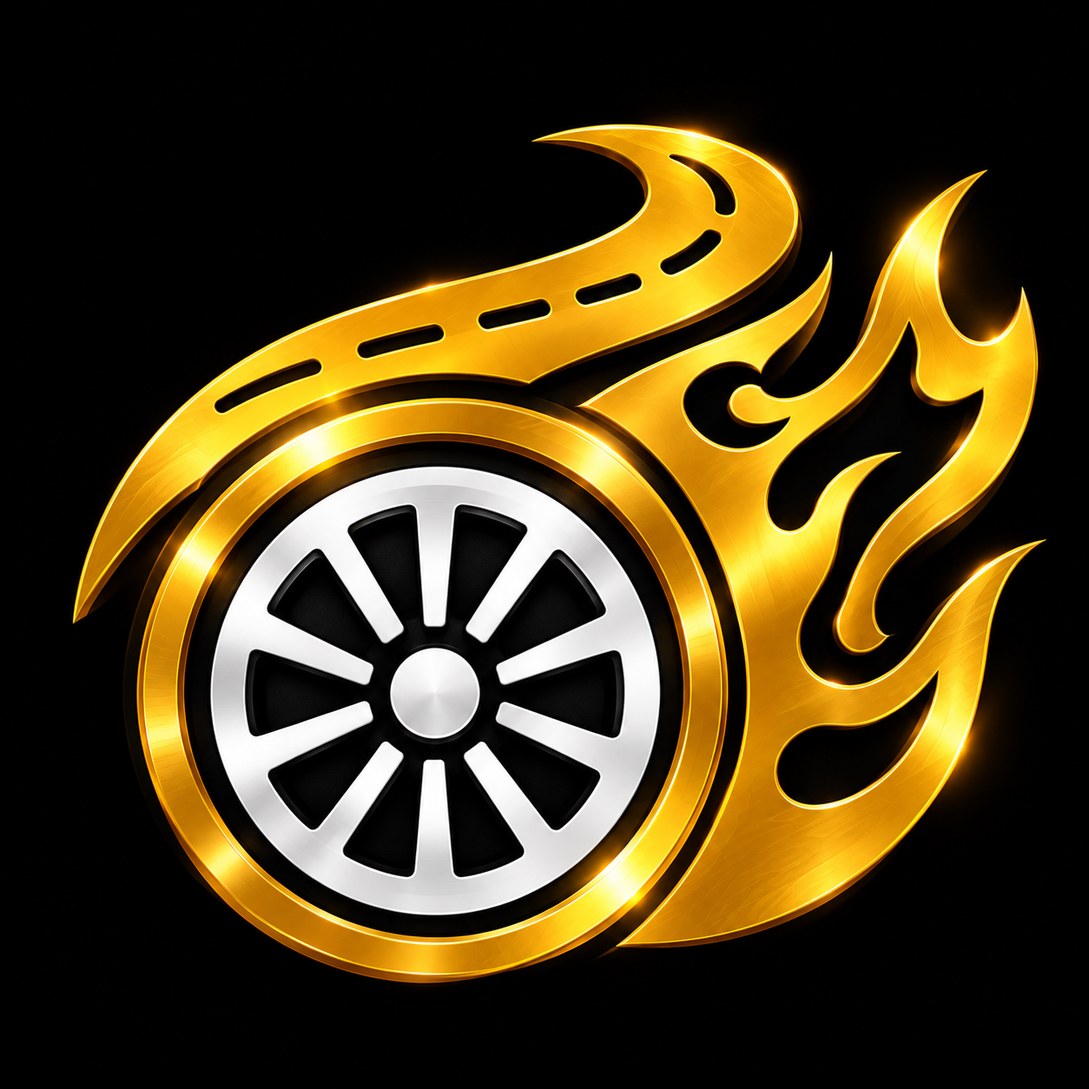
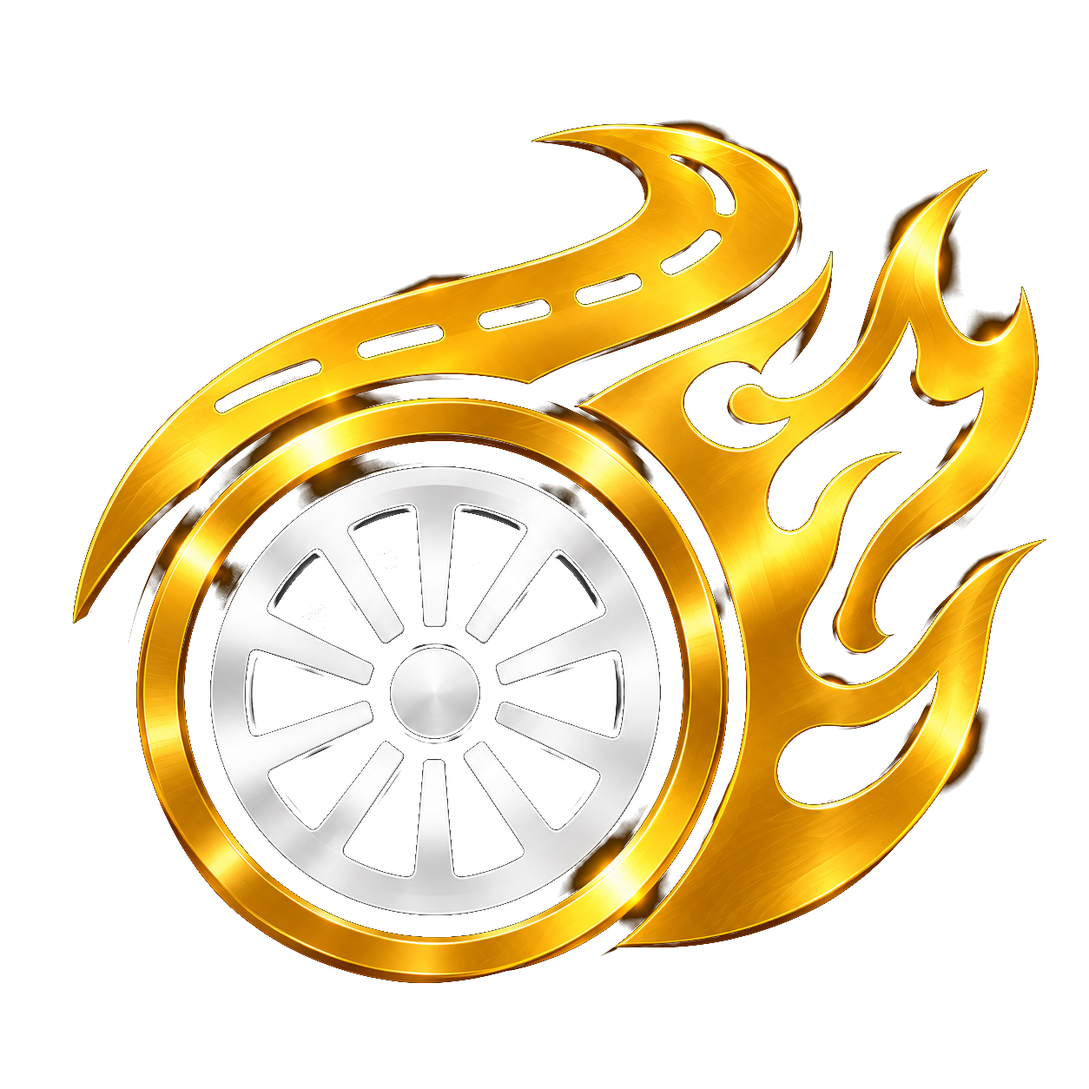
Add light/dark theme toggle, swipe approvals, edit price alerts
Features:
- Light theme with warm gold palette, toggle button in sidebar
  (persists via localStorage)
- Mobile swipe gestures on approval cards: swipe right to approve,
  swipe left to reject, with visual hints
- Edit price alert target: inline form with save/cancel
- Fix emblema.png transparency (remove black background)
- Increase header emblem size to 44px
- Move bot status indicator to health sidebar icon
- Remove status dot from emblem entirely

Generated with [Devin](https://devin.ai)

diff --git a/static/app.css b/static/app.css
@@ -14,10 +14,13 @@
 .sidebar-logout{width:42px;height:42px;display:flex;align-items:center;justify-content:center;border-radius:10px;color:var(--muted);text-decoration:none;transition:.15s}
 .sidebar-logout:hover{background:var(--surface2);color:var(--text)}
 .sidebar-logout[data-tip]:hover::after{content:attr(data-tip);position:absolute;left:54px;top:50%;transform:translateY(-50%);background:var(--surface2);color:var(--text);padding:6px 12px;border-radius:8px;font-size:12px;white-space:nowrap;border:1px solid var(--line);z-index:20}
-/* Emblem */
-.emblem-wrap{position:relative;display:block;text-decoration:none}.emblem{width:32px;height:32px;object-fit:contain;filter:drop-shadow(0 0 6px rgba(218,165,32,.3))}
-.emblem-wrap i{width:8px;height:8px;background:var(--green);border-radius:50%;position:absolute;bottom:0;right:-1px;border:2px solid #0a1220;box-shadow:0 0 8px var(--green)}
-.emblem-wrap i.offline{background:var(--red);box-shadow:0 0 8px var(--red)}
+/* Emblem (pure icon, no status) */
+.emblem-link{display:block;text-decoration:none}
+.emblem{width:44px;height:44px;object-fit:contain;display:block;background:transparent}
+/* Health icon status dot in sidebar */
+.sidebar nav a .health-dot{width:7px;height:7px;border-radius:50%;position:absolute;bottom:5px;right:5px;border:2px solid #0a1220}
+.sidebar nav a .health-dot.online{background:var(--green);box-shadow:0 0 6px var(--green)}
+.sidebar nav a .health-dot.offline{background:var(--red);box-shadow:0 0 6px var(--red)}
 /* Bottom bar (mobile only, hidden on desktop) */
 .bottombar{display:none}.more-menu{display:none}
 /* Login brand */
@@ -57,8 +60,90 @@ main{margin:0;width:100%;padding:18px 16px 80px}
 .sidebar nav a.active{background:linear-gradient(90deg,#d4af3722,#d4af3708);color:#d4af37}
 .sidebar nav a[data-tip]:hover::after{background:#242424;border-color:#3d382b}
 .sidebar-logout:hover{background:linear-gradient(90deg,#d4af3722,#d4af3708);color:#f6d55c}
-.emblem-wrap i{border-color:#090909}.emblem-wrap i.offline{background:var(--red)}
+.sidebar nav a .health-dot{border-color:#090909}
 .bottombar{background:linear-gradient(180deg,#090909,#11100d);border-top-color:#3c3219}
 .btab.active{color:#d4af37}
 .more-menu{background:#242424;border-color:#3d382b}
-.panel small{color:#d4af37}.topbar h1,.panel h2,.stats strong,.price,.target{font-family:'DejaVu Sans',Arial,sans-serif;font-weight:700;letter-spacing:-.02em}.panel,.stats article{background:linear-gradient(145deg,#191919,#111);border-color:#383326;box-shadow:0 12px 30px #00000024}.primary{background:linear-gradient(135deg,#f6d55c,#d4af37 55%,#b68d16);color:#0d0d0d;box-shadow:0 5px 16px #d4af3726}.primary:hover{filter:brightness(1.08)}.button{background:#202020;border-color:#454033}.button:hover{border-color:#d4af37;color:#f6d55c}input,textarea,select{background:#101010;border-color:#454033}input:focus,textarea:focus,select:focus{border-color:#d4af37;box-shadow:0 0 0 3px #d4af371c}.mini-card,.schedule-card,.deal-card{background:#202020;border-color:#454033}.pill{background:#302d25;color:#ded6bd}.status i{background:#d4af37;box-shadow:0 0 12px #d4af37}.login-page{background:radial-gradient(circle at 50% 15%,#4a390f66 0,transparent 36%),#0d0d0d}.login-card{background:linear-gradient(160deg,#1b1b1b,#0f0f0f);border-color:#4c4023;box-shadow:0 28px 80px #000b}.login-brand{height:190px;border-radius:0;mix-blend-mode:screen;margin-bottom:10px}.login-card h1{font-family:'DejaVu Sans',Arial,sans-serif}.icon-btn{background:#202020;border-color:#454033}.icon-btn:hover{border-color:#d4af37;color:#f6d55c}.button,.primary,.danger,button{font-family:'Montserrat',sans-serif}.deal-price,.health-hero h2{font-family:'DejaVu Sans',Arial,sans-serif}.store-toggles label,.rule-summary span,.edit-rule{background:#1c1b18}.settings-save{left:64px;background:#11100dee;border-top-color:#3c3219}.coupon-box{background:#181714}.health-hero{background:linear-gradient(120deg,#2b2617,#151515)}.health-hero.critical{background:linear-gradient(120deg,#3a2022,#151113)}.meter{background:#302e29}.pagination a,.pagination span{background:#202020;border-color:#454033}.sidebar nav{overflow-y:auto;flex:1;min-height:0}.nav-group:first-child{padding-top:6px}.sidebar nav a{display:flex;align-items:center;gap:10px}.sidebar nav a svg{flex-shrink:0;opacity:.7}.sidebar nav a.active svg,.sidebar nav a:hover svg{opacity:1}.nav-badge{margin-left:auto;background:var(--accent);color:#0d0d0d;font-size:11px;font-weight:700;min-width:20px;height:20px;line-height:20px;text-align:center;border-radius:10px;padding:0 6px}.health-dot{width:8px;height:8px;border-radius:50%;margin-left:auto;flex-shrink:0}.health-dot.online{background:var(--green);box-shadow:0 0 8px var(--green)}.health-dot.offline{background:var(--red);box-shadow:0 0 8px var(--red)}.logout{display:flex;align-items:center;gap:10px}.logout svg{opacity:.7}.split{overflow:hidden}.mini-card-v2{display:flex;align-items:stretch;gap:16px;padding:16px}.mini-left{display:flex;gap:12px;flex:1;min-width:0}.mini-thumb{width:64px;height:64px;object-fit:contain;border-radius:8px;background:#fff;flex-shrink:0}.mini-text{min-width:0}.mini-text h3{margin:6px 0 4px;white-space:nowrap;overflow:hidden;text-overflow:ellipsis}.mini-text p{margin:2px 0;font-size:13px}.mini-right{display:flex;flex-direction:column;align-items:center;gap:8px;flex-shrink:0;min-width:130px}.mini-btns{display:grid;grid-template-columns:1fr 1fr;gap:6px;width:100%;align-items:start}.mini-btns form,.mini-btns details{margin:0}.mini-btn{text-align:center;padding:7px 10px!important;font-size:12px!important;white-space:nowrap;width:100%!important;margin:0!important;box-sizing:border-box}.mini-btn-danger{color:var(--red)!important;border-color:#4a2020!important}.mini-btn-danger:hover{background:#3a1515!important;border-color:var(--red)!important}.mini-btns .mini-edit-wrap{flex:1;min-width:0}.mini-edit-wrap>summary{list-style:none;cursor:pointer;display:block;width:100%}.mini-edit-wrap>summary::-webkit-details-marker{display:none}.mini-btns .delete-form{flex:1;min-width:0}.mini-btns .delete-form .mini-btn{width:100%}.edit-mini{padding-top:10px}.link-btns{display:grid;grid-template-columns:1fr 1fr;gap:8px;margin-top:8px}.bulk-count{font-size:13px;color:var(--accent);font-weight:600}.rule-btns{display:grid;grid-template-columns:1fr 1fr;gap:8px;margin-top:12px;align-items:start}.rule-btns>*{margin:0}.rule-btns .button,.rule-btns .danger{width:100%;text-align:center;padding:9px 14px;font-size:13px;box-sizing:border-box}.rule-edit-wrap{min-width:0}.rule-edit-wrap>summary{list-style:none;cursor:pointer;display:block;width:100%}.rule-edit-wrap>summary::-webkit-details-marker{display:none}.edit-rule{margin-top:10px}.approval-actions{display:flex;flex-direction:column;gap:8px!important;margin-top:15px}.approval-actions button{width:auto!important;margin-top:0!important}.actions-primary{display:flex;gap:8px}.actions-primary button{flex:1;padding:9px 14px;font-size:13px}.actions-secondary{display:flex;gap:6px}.actions-secondary button{flex:1;padding:7px 8px;font-size:12px;border-radius:6px;border:1px solid var(--line);background:var(--surface2);color:var(--muted);cursor:pointer;transition:all .15s;white-space:nowrap}.actions-secondary button:hover{color:var(--text);border-color:var(--text)}.actions-secondary [data-action="block_product"],.actions-secondary [data-action="block_title"]{color:var(--red);border-color:#4a2020}.actions-secondary [data-action="block_product"]:hover,.actions-secondary [data-action="block_title"]:hover{background:#3a1515;border-color:var(--red)}.actions-secondary [data-action="price_alert"]{color:#f6d55c;border-color:#4a3518}.actions-secondary [data-action="price_alert"]:hover{background:#3a2a12;border-color:#d4af37}.approval-filters{display:flex;align-items:center;gap:10px}.approval-filters input[name="q"]{width:180px;flex-shrink:0}.approval-filters select{flex:1;min-width:0}.kbd-hint{font-size:11px;color:var(--muted);margin-left:12px}.kbd-hint kbd{display:inline-block;background:var(--surface2);border:1px solid var(--line);border-radius:4px;padding:1px 5px;font-family:inherit;font-size:11px;min-width:18px;text-align:center}.settings-save.unsaved{border-top-color:var(--accent);background:#1a1608ee}.settings-save.unsaved strong{color:var(--accent)}.settings-save.unsaved strong::after{content:' (alterações não salvas)';font-weight:400;font-size:12px}.stat-link{text-decoration:none;color:inherit;display:block}.stat-link:hover article{border-color:var(--accent);transform:translateY(-2px);transition:all .2s}.stats-6{grid-template-columns:repeat(3,1fr)}@media(max-width:600px){.stats-6{grid-template-columns:repeat(2,1fr)}}.stats{align-items:stretch}.stats .stat-link{display:flex}.stats .stat-link article{flex:1;display:flex;flex-direction:column}.stats article small{min-height:2.4em}.card-focus{outline:2px solid var(--accent);outline-offset:2px}#toast-container{position:fixed;top:20px;right:20px;z-index:999;display:flex;flex-direction:column;gap:8px}.toast{padding:12px 20px;border-radius:10px;color:#fff;font-weight:600;font-size:14px;opacity:0;transform:translateX(40px);transition:all .3s ease;pointer-events:none;max-width:380px}.toast.show{opacity:1;transform:translateX(0)}.toast-success{background:#1a6b3a;border:1px solid var(--green)}.toast-error{background:#6b1a1a;border:1px solid var(--red)}.toast-info{background:#1a3a6b;border:1px solid #4a9eff}.flash.auto-dismiss{transition:opacity .4s,transform .4s}.price-alert-form{display:flex;align-items:center;gap:10px;padding:10px 0;flex-wrap:wrap}.price-alert-form.hidden{display:none}.price-alert-form label{display:flex;align-items:center;gap:6px;font-size:13px}.price-alert-form input{width:100px}.price-alert-form .price-alert-form .primary,.price-alert-form .button{padding:6px 14px;font-size:13px}.panel+.approval-grid,.panel+.empty-state{margin-top:16px}.alert-card{padding:16px}.alert-top{display:flex;gap:12px;align-items:flex-start}.alert-img{width:80px;height:80px;object-fit:contain;border-radius:8px;background:#fff;flex-shrink:0}.alert-info{min-width:0}.alert-info h3{margin:6px 0 0;font-size:14px;line-height:1.3}.alert-prices{display:grid;grid-template-columns:1fr 1fr;gap:10px;margin-top:12px}.alert-prices div{background:var(--surface2);border-radius:8px;padding:8px 12px}.alert-prices small{display:block;color:var(--muted);font-size:11px;margin-bottom:2px}.alert-prices strong{font-size:15px}.alert-target-price{color:var(--accent)}.alert-footer{display:flex;align-items:center;gap:10px;margin-top:12px;font-size:12px;color:var(--muted)}.alert-footer form{margin-left:auto}[data-action="price_alert"]{background:#3a2a12;border-color:#6b4f1a;color:#f6d55c}[data-action="price_alert"]:hover{background:#4a3518;border-color:#d4af37}.alert-card{padding:16px}.alert-card img{border-radius:8px}.alert-triggered{border-color:#d4af37;background:linear-gradient(145deg,#2a2617,#151515)}@media(max-width:900px){.sidebar{width:280px}main{margin-left:0;width:100%}.brand img{width:205px;height:86px}.settings-save{left:0}}
+.panel small{color:#d4af37}.topbar h1,.panel h2,.stats strong,.price,.target{font-family:'DejaVu Sans',Arial,sans-serif;font-weight:700;letter-spacing:-.02em}.panel,.stats article{background:linear-gradient(145deg,#191919,#111);border-color:#383326;box-shadow:0 12px 30px #00000024}.primary{background:linear-gradient(135deg,#f6d55c,#d4af37 55%,#b68d16);color:#0d0d0d;box-shadow:0 5px 16px #d4af3726}.primary:hover{filter:brightness(1.08)}.button{background:#202020;border-color:#454033}.button:hover{border-color:#d4af37;color:#f6d55c}input,textarea,select{background:#101010;border-color:#454033}input:focus,textarea:focus,select:focus{border-color:#d4af37;box-shadow:0 0 0 3px #d4af371c}.mini-card,.schedule-card,.deal-card{background:#202020;border-color:#454033}.pill{background:#302d25;color:#ded6bd}.status i{background:#d4af37;box-shadow:0 0 12px #d4af37}.login-page{background:radial-gradient(circle at 50% 15%,#4a390f66 0,transparent 36%),#0d0d0d}.login-card{background:linear-gradient(160deg,#1b1b1b,#0f0f0f);border-color:#4c4023;box-shadow:0 28px 80px #000b}.login-brand{height:190px;border-radius:0;mix-blend-mode:screen;margin-bottom:10px}.login-card h1{font-family:'DejaVu Sans',Arial,sans-serif}.icon-btn{background:#202020;border-color:#454033}.icon-btn:hover{border-color:#d4af37;color:#f6d55c}.button,.primary,.danger,button{font-family:'Montserrat',sans-serif}.deal-price,.health-hero h2{font-family:'DejaVu Sans',Arial,sans-serif}.store-toggles label,.rule-summary span,.edit-rule{background:#1c1b18}.settings-save{left:64px;background:#11100dee;border-top-color:#3c3219}.coupon-box{background:#181714}.health-hero{background:linear-gradient(120deg,#2b2617,#151515)}.health-hero.critical{background:linear-gradient(120deg,#3a2022,#151113)}.meter{background:#302e29}.pagination a,.pagination span{background:#202020;border-color:#454033}.sidebar nav{overflow-y:auto;flex:1;min-height:0}.nav-group:first-child{padding-top:6px}.sidebar nav a{display:flex;align-items:center;gap:10px}.sidebar nav a svg{flex-shrink:0;opacity:.7}.sidebar nav a.active svg,.sidebar nav a:hover svg{opacity:1}.nav-badge{margin-left:auto;background:var(--accent);color:#0d0d0d;font-size:11px;font-weight:700;min-width:20px;height:20px;line-height:20px;text-align:center;border-radius:10px;padding:0 6px}.health-dot{width:8px;height:8px;border-radius:50%;margin-left:auto;flex-shrink:0}.health-dot.online{background:var(--green);box-shadow:0 0 8px var(--green)}.health-dot.offline{background:var(--red);box-shadow:0 0 8px var(--red)}.logout{display:flex;align-items:center;gap:10px}.logout svg{opacity:.7}.split{overflow:hidden}.mini-card-v2{display:flex;align-items:stretch;gap:16px;padding:16px}.mini-left{display:flex;gap:12px;flex:1;min-width:0}.mini-thumb{width:64px;height:64px;object-fit:contain;border-radius:8px;background:#fff;flex-shrink:0}.mini-text{min-width:0}.mini-text h3{margin:6px 0 4px;white-space:nowrap;overflow:hidden;text-overflow:ellipsis}.mini-text p{margin:2px 0;font-size:13px}.mini-right{display:flex;flex-direction:column;align-items:center;gap:8px;flex-shrink:0;min-width:130px}.mini-btns{display:grid;grid-template-columns:1fr 1fr;gap:6px;width:100%;align-items:start}.mini-btns form,.mini-btns details{margin:0}.mini-btn{text-align:center;padding:7px 10px!important;font-size:12px!important;white-space:nowrap;width:100%!important;margin:0!important;box-sizing:border-box}.mini-btn-danger{color:var(--red)!important;border-color:#4a2020!important}.mini-btn-danger:hover{background:#3a1515!important;border-color:var(--red)!important}.mini-btns .mini-edit-wrap{flex:1;min-width:0}.mini-edit-wrap>summary{list-style:none;cursor:pointer;display:block;width:100%}.mini-edit-wrap>summary::-webkit-details-marker{display:none}.mini-btns .delete-form{flex:1;min-width:0}.mini-btns .delete-form .mini-btn{width:100%}.edit-mini{padding-top:10px}.link-btns{display:grid;grid-template-columns:1fr 1fr;gap:8px;margin-top:8px}.bulk-count{font-size:13px;color:var(--accent);font-weight:600}.rule-btns{display:grid;grid-template-columns:1fr 1fr;gap:8px;margin-top:12px;align-items:start}.rule-btns>*{margin:0}.rule-btns .button,.rule-btns .danger{width:100%;text-align:center;padding:9px 14px;font-size:13px;box-sizing:border-box}.rule-edit-wrap{min-width:0}.rule-edit-wrap>summary{list-style:none;cursor:pointer;display:block;width:100%}.rule-edit-wrap>summary::-webkit-details-marker{display:none}.edit-rule{margin-top:10px}.approval-actions{display:flex;flex-direction:column;gap:8px!important;margin-top:15px}.approval-actions button{width:auto!important;margin-top:0!important}.actions-primary{display:flex;gap:8px}.actions-primary button{flex:1;padding:9px 14px;font-size:13px}.actions-secondary{display:flex;gap:6px}.actions-secondary button{flex:1;padding:7px 8px;font-size:12px;border-radius:6px;border:1px solid var(--line);background:var(--surface2);color:var(--muted);cursor:pointer;transition:all .15s;white-space:nowrap}.actions-secondary button:hover{color:var(--text);border-color:var(--text)}.actions-secondary [data-action="block_product"],.actions-secondary [data-action="block_title"]{color:var(--red);border-color:#4a2020}.actions-secondary [data-action="block_product"]:hover,.actions-secondary [data-action="block_title"]:hover{background:#3a1515;border-color:var(--red)}.actions-secondary [data-action="price_alert"]{color:#f6d55c;border-color:#4a3518}.actions-secondary [data-action="price_alert"]:hover{background:#3a2a12;border-color:#d4af37}.approval-filters{display:flex;align-items:center;gap:10px}.approval-filters input[name="q"]{width:180px;flex-shrink:0}.approval-filters select{flex:1;min-width:0}.kbd-hint{font-size:11px;color:var(--muted);margin-left:12px}.kbd-hint kbd{display:inline-block;background:var(--surface2);border:1px solid var(--line);border-radius:4px;padding:1px 5px;font-family:inherit;font-size:11px;min-width:18px;text-align:center}.settings-save.unsaved{border-top-color:var(--accent);background:#1a1608ee}.settings-save.unsaved strong{color:var(--accent)}.settings-save.unsaved strong::after{content:' (alterações não salvas)';font-weight:400;font-size:12px}.stat-link{text-decoration:none;color:inherit;display:block}.stat-link:hover article{border-color:var(--accent);transform:translateY(-2px);transition:all .2s}.stats-6{grid-template-columns:repeat(3,1fr)}@media(max-width:600px){.stats-6{grid-template-columns:repeat(2,1fr)}}.stats{align-items:stretch}.stats .stat-link{display:flex}.stats .stat-link article{flex:1;display:flex;flex-direction:column}.stats article small{min-height:2.4em}.card-focus{outline:2px solid var(--accent);outline-offset:2px}#toast-container{position:fixed;top:20px;right:20px;z-index:999;display:flex;flex-direction:column;gap:8px}.toast{padding:12px 20px;border-radius:10px;color:#fff;font-weight:600;font-size:14px;opacity:0;transform:translateX(40px);transition:all .3s ease;pointer-events:none;max-width:380px}.toast.show{opacity:1;transform:translateX(0)}.toast-success{background:#1a6b3a;border:1px solid var(--green)}.toast-error{background:#6b1a1a;border:1px solid var(--red)}.toast-info{background:#1a3a6b;border:1px solid #4a9eff}.flash.auto-dismiss{transition:opacity .4s,transform .4s}.price-alert-form{display:flex;align-items:center;gap:10px;padding:10px 0;flex-wrap:wrap}.price-alert-form.hidden{display:none}.price-alert-form label{display:flex;align-items:center;gap:6px;font-size:13px}.price-alert-form input{width:100px}.price-alert-form .price-alert-form .primary,.price-alert-form .button{padding:6px 14px;font-size:13px}.panel+.approval-grid,.panel+.empty-state{margin-top:16px}.alert-card{padding:16px}.alert-top{display:flex;gap:12px;align-items:flex-start}.alert-img{width:80px;height:80px;object-fit:contain;border-radius:8px;background:#fff;flex-shrink:0}.alert-info{min-width:0}.alert-info h3{margin:6px 0 0;font-size:14px;line-height:1.3}.alert-prices{display:grid;grid-template-columns:1fr 1fr;gap:10px;margin-top:12px}.alert-prices div{background:var(--surface2);border-radius:8px;padding:8px 12px}.alert-prices small{display:block;color:var(--muted);font-size:11px;margin-bottom:2px}.alert-prices strong{font-size:15px}.alert-target-price{color:var(--accent)}.alert-footer{display:flex;align-items:center;gap:10px;margin-top:12px;font-size:12px;color:var(--muted)}.alert-footer form{margin-left:auto}[data-action="price_alert"]{background:#3a2a12;border-color:#6b4f1a;color:#f6d55c}[data-action="price_alert"]:hover{background:#4a3518;border-color:#d4af37}.alert-card{padding:16px}.alert-card img{border-radius:8px}.alert-triggered{border-color:#d4af37;background:linear-gradient(145deg,#2a2617,#151515)}.alert-edit{background:var(--surface2);border:1px solid var(--line);border-radius:10px;padding:12px;margin:10px 0}.alert-edit.hidden{display:none}@media(max-width:900px){.sidebar{display:none}main{margin-left:0;width:100%;padding-bottom:80px}.settings-save{left:0}}
+
+/* === LIGHT THEME === */
+[data-theme="light"]{--bg:#f5f3ef;--surface:#ffffff;--surface2:#f0ece4;--line:#e0dbd0;--text:#1a1a1a;--muted:#6b6560;--accent:#b8941a;--accent-dark:#8a6d0e;--red:#d44040;--green:#2d8a52}
+[data-theme="light"] body{background:var(--bg);color:var(--text)}
+[data-theme="light"] .sidebar{background:#fffdf8;border-right-color:var(--line)}
+[data-theme="light"] .sidebar-logo img{mix-blend-mode:multiply}
+[data-theme="light"] .sidebar nav a:hover{background:#f0ece4;color:#1a1a1a}
+[data-theme="light"] .sidebar nav a.active{background:#f0ece4;color:var(--accent)}
+[data-theme="light"] .sidebar nav a[data-tip]:hover::after{background:#fff;border-color:var(--line);color:#1a1a1a}
+[data-theme="light"] .sidebar-logout:hover{background:#f0ece4;color:#1a1a1a}
+[data-theme="light"] .sidebar nav a .health-dot{border-color:#fffdf8}
+[data-theme="light"] .nav-badge{background:var(--red);color:#fff}
+[data-theme="light"] .bottombar{background:#fffdf8;border-top-color:var(--line)}
+[data-theme="light"] .btab{color:var(--muted)}
+[data-theme="light"] .btab.active{color:var(--accent)}
+[data-theme="light"] .more-menu{background:#fff;border-color:var(--line);box-shadow:0 -8px 30px rgba(0,0,0,.1)}
+[data-theme="light"] .more-menu a{color:var(--muted)}
+[data-theme="light"] .more-menu a:hover{background:#f0ece4;color:#1a1a1a}
+[data-theme="light"] .topbar h1{color:#1a1a1a}
+[data-theme="light"] .panel,.panel small{color:var(--accent)}
+[data-theme="light"] .panel,.stats article{background:#fff;border-color:var(--line);box-shadow:0 4px 16px rgba(0,0,0,.06)}
+[data-theme="light"] .stats span,.stats small{color:var(--muted)}
+[data-theme="light"] .stats strong{color:#1a1a1a}
+[data-theme="light"] .primary{background:linear-gradient(135deg,#f6d55c,#d4af37 55%,#b68d16);color:#1a1a1a}
+[data-theme="light"] .button{background:#f0ece4;border-color:var(--line);color:#1a1a1a}
+[data-theme="light"] .button:hover{border-color:var(--accent);color:var(--accent)}
+[data-theme="light"] .danger{background:#fde8e8;color:#c62828}
+[data-theme="light"] input,[data-theme="light"] textarea,[data-theme="light"] select{background:#faf8f4;border-color:var(--line);color:#1a1a1a}
+[data-theme="light"] input:focus,[data-theme="light"] textarea:focus,[data-theme="light"] select:focus{border-color:var(--accent);box-shadow:0 0 0 3px rgba(184,148,26,.15)}
+[data-theme="light"] .mini-card,[data-theme="light"] .schedule-card,[data-theme="light"] .deal-card{background:#fff;border-color:var(--line)}
+[data-theme="light"] .pill{background:#f0ece4;color:#6b6560}
+[data-theme="light"] .pill.posted{background:#e0f5e8;color:#2d6b42}
+[data-theme="light"] .pill.pending{background:#fef3d0;color:#8a6d0e}
+[data-theme="light"] .pill.rejected,[data-theme="light"] .pill.blacklisted{background:#fde8e8;color:#c62828}
+[data-theme="light"] .icon-btn{background:#f0ece4;border-color:var(--line);color:var(--muted)}
+[data-theme="light"] .icon-btn:hover{border-color:var(--accent);color:var(--accent)}
+[data-theme="light"] .health-hero{background:linear-gradient(120deg,#f5f0e0,#faf8f4);border-color:var(--line)}
+[data-theme="light"] .health-hero.critical{background:linear-gradient(120deg,#fde8e8,#faf5f5)}
+[data-theme="light"] .meter{background:#e8e4da}
+[data-theme="light"] .store-toggles label,.rule-summary span,.edit-rule{background:#faf8f4}
+[data-theme="light"] .coupon-box{background:#faf8f4;border-color:var(--line)}
+[data-theme="light"] .flash{background:#e0f5e8;color:#2d6b42}
+[data-theme="light"] .flash.error{background:#fde8e8;color:#c62828}
+[data-theme="light"] .login-page{background:#f5f3ef}
+[data-theme="light"] .login-card{background:#fff;border-color:var(--line);box-shadow:0 12px 40px rgba(0,0,0,.08)}
+[data-theme="light"] .login-brand{mix-blend-mode:multiply}
+[data-theme="light"] .toast-success{background:#2d8a52;border-color:#2d8a52}
+[data-theme="light"] .toast-error{background:#c62828;border-color:#c62828}
+[data-theme="light"] .toast-info{background:#b8941a;border-color:#b8941a}
+[data-theme="light"] .pagination a{background:#f0ece4;color:#1a1a1a;border-color:var(--line)}
+[data-theme="light"] .pagination a.active{background:var(--accent);color:#fff}
+[data-theme="light"] .settings-save{background:#fffdf8ee;border-top-color:var(--line)}
+[data-theme="light"] .approval-card{background:#fff;border-color:var(--line)}
+[data-theme="light"] .approval-select{background:#fffa}
+[data-theme="light"] .alert-card{background:#fff;border-color:var(--line)}
+[data-theme="light"] .alert-triggered{background:linear-gradient(145deg,#fef8e0,#fff);border-color:var(--accent)}
+[data-theme="light"] .alert-edit{background:#f0ece4;border-color:var(--line)}
+[data-theme="light"] .score-high{background:#e0f5e822;color:#2d8a52;border-color:#2d8a5244}
+[data-theme="light"] .score-mid{background:#fef3d022;color:#8a6d0e;border-color:#8a6d0e44}
+[data-theme="light"] .score-low{background:#fde8e822;color:#c62828;border-color:#c6282844}
+[data-theme="light"] .quality-record{background:#fef3d0;color:#8a6d0e}
+[data-theme="light"] .quality-excellent{background:#e0f5e8;color:#2d6b42}
+[data-theme="light"] .quality-good{background:#e0f0f8;color:#1a5c7a}
+[data-theme="light"] .quality-normal{background:#fef3d0;color:#8a6d0e}
+[data-theme="light"] .quality-expensive{background:#fde8e8;color:#c62828}
+[data-theme="light"] .comparison-note{background:#e8f4fa;color:#1a5c7a}
+[data-theme="light"] .quality-context{background:#faf8f4}
+[data-theme="light"] .actions-secondary button{border-color:var(--line);background:#f0ece4;color:var(--muted)}
+[data-theme="light"] .actions-secondary button:hover{color:#1a1a1a;border-color:#1a1a1a}
+[data-theme="light"] .emblem{filter:drop-shadow(0 0 2px rgba(0,0,0,.15))}
+/* Theme toggle button */
+.theme-toggle{width:42px;height:42px;display:flex;align-items:center;justify-content:center;border-radius:10px;color:var(--muted);background:none;border:none;cursor:pointer;transition:.15s;position:relative}
+.theme-toggle:hover{background:var(--surface2);color:var(--text)}
+.theme-toggle[data-tip]:hover::after{content:attr(data-tip);position:absolute;left:54px;top:50%;transform:translateY(-50%);background:var(--surface2);color:var(--text);padding:6px 12px;border-radius:8px;font-size:12px;white-space:nowrap;border:1px solid var(--line);z-index:20;pointer-events:none}
+/* Swipe cards */
+.swipe-card{position:relative;overflow:hidden;touch-action:pan-y}
+.swipe-card .swipe-hint{position:absolute;top:0;bottom:0;width:80px;display:flex;align-items:center;justify-content:center;font-weight:700;font-size:13px;opacity:0;transition:opacity .15s;pointer-events:none;z-index:1}
+.swipe-card .swipe-approve{left:0;background:linear-gradient(90deg,rgba(45,138,82,.9),transparent);color:#fff}
+.swipe-card .swipe-reject{right:0;background:linear-gradient(-90deg,rgba(212,64,64,.9),transparent);color:#fff}
+.swipe-card.swiping-right .swipe-approve{opacity:1}
+.swipe-card.swiping-left .swipe-reject{opacity:1}
+.swipe-card .swipe-inner{position:relative;z-index:2;background:inherit;transition:transform .2s}

diff --git a/templates/base.html b/templates/base.html
@@ -24,10 +24,11 @@
       <a class="{{ 'active' if request.endpoint == 'search_settings' }}" href="{{ url_for('search_settings') }}" data-tip="Buscas e filtros"><svg width="18" height="18" viewBox="0 0 24 24" fill="none" stroke="currentColor" stroke-width="2"><circle cx="12" cy="12" r="3"/><path d="M19.4 15a1.65 1.65 0 00.33 1.82l.06.06a2 2 0 01-2.83 2.83l-.06-.06a1.65 1.65 0 00-1.82-.33 1.65 1.65 0 00-1 1.51V21a2 2 0 01-4 0v-.09a1.65 1.65 0 00-1.08-1.51 1.65 1.65 0 00-1.82.33l-.06.06a2 2 0 01-2.83-2.83l.06-.06a1.65 1.65 0 00.33-1.82 1.65 1.65 0 00-1.51-1H3a2 2 0 010-4h.09a1.65 1.65 0 001.51-1.08 1.65 1.65 0 00-.33-1.82l-.06-.06a2 2 0 012.83-2.83l.06.06a1.65 1.65 0 001.82.33H9a1.65 1.65 0 001-1.51V3a2 2 0 014 0v.09a1.65 1.65 0 001.08 1.51 1.65 1.65 0 001.82-.33l.06-.06a2 2 0 012.83 2.83l-.06.06a1.65 1.65 0 00-.33 1.82V9c.26.604.852.997 1.51 1H21a2 2 0 010 4h-.09a1.65 1.65 0 00-1.51 1.08z"/></svg></a>
       <span class="nav-divider"></span>
       <a class="{{ 'active' if request.endpoint == 'metrics' }}" href="{{ url_for('metrics') }}" data-tip="Métricas"><svg width="18" height="18" viewBox="0 0 24 24" fill="none" stroke="currentColor" stroke-width="2"><path d="M18 20V10M12 20V4M6 20v-6"/></svg></a>
-      <a class="{{ 'active' if request.endpoint == 'system_health' }}" href="{{ url_for('system_health') }}" data-tip="Saúde do sistema"><svg width="18" height="18" viewBox="0 0 24 24" fill="none" stroke="currentColor" stroke-width="2"><path d="M22 12h-4l-3 9L9 3l-3 9H2"/></svg></a>
+      <a class="{{ 'active' if request.endpoint == 'system_health' }}" href="{{ url_for('system_health') }}" data-tip="Saúde do sistema"><svg width="18" height="18" viewBox="0 0 24 24" fill="none" stroke="currentColor" stroke-width="2"><path d="M22 12h-4l-3 9L9 3l-3 9H2"/></svg><span class="health-dot {{ 'online' if bot_indicator.online else 'offline' }}"></span></a>
     </nav>
     <div class="sidebar-bottom">
-      <a class="emblem-wrap" href="{{ url_for('system_health') }}" title="{{ 'Bot ativo' if bot_indicator.online else 'Bot sem resposta' }}"><img class="emblem" src="{{ url_for('static', filename='emblema.png') }}" alt="Status"><i class="{{ 'online' if bot_indicator.online else 'offline' }}"></i></a>
+      <button class="theme-toggle" id="theme-toggle" data-tip="Alternar tema"><svg width="18" height="18" viewBox="0 0 24 24" fill="none" stroke="currentColor" stroke-width="2" id="theme-icon"><path d="M21 12.79A9 9 0 1111.21 3 7 7 0 0021 12.79z"/></svg></button>
+      <a class="emblem-link" href="{{ url_for('index') }}"><img class="emblem" src="{{ url_for('static', filename='emblema.png') }}" alt="RUSSO Diecast"></a>
       <a class="sidebar-logout" href="{{ url_for('logout') }}" data-tip="Sair"><svg width="18" height="18" viewBox="0 0 24 24" fill="none" stroke="currentColor" stroke-width="2"><path d="M9 21H5a2 2 0 01-2-2V5a2 2 0 012-2h4M16 17l5-5-5-5M21 12H9"/></svg></a>
     </div>
   </aside>
@@ -54,7 +55,7 @@
   <main>
     <header class="topbar">
       <h1>{% block heading %}RUSSO Diecast{% endblock %}</h1>
-      <a class="emblem-wrap mobile-emblem" href="{{ url_for('system_health') }}" title="{{ 'Bot ativo' if bot_indicator.online else 'Bot sem resposta' }}"><img class="emblem" src="{{ url_for('static', filename='emblema.png') }}" alt="Status"><i class="{{ 'online' if bot_indicator.online else 'offline' }}"></i></a>
+      <a class="emblem-link mobile-emblem" href="{{ url_for('index') }}"><img class="emblem" src="{{ url_for('static', filename='emblema.png') }}" alt="RUSSO Diecast"></a>
     </header>
     <div id="toast-container"></div>
     {% for category, message in get_flashed_messages(with_categories=true) %}<div class="flash {{ category }} auto-dismiss">{{ message }}</div>{% endfor %}
@@ -62,6 +63,27 @@
   </main>
   {% block scripts %}{% endblock %}
   <script>
+  // Theme toggle
+  (function(){
+    const saved=localStorage.getItem('theme');
+    if(saved)document.documentElement.setAttribute('data-theme',saved);
+    const btn=document.getElementById('theme-toggle');
+    const icon=document.getElementById('theme-icon');
+    function updateIcon(){
+      const isLight=document.documentElement.getAttribute('data-theme')==='light';
+      icon.innerHTML=isLight
+        ?'<circle cx="12" cy="12" r="5"/><path d="M12 1v2M12 21v2M4.22 4.22l1.42 1.42M18.36 18.36l1.42 1.42M1 12h2M21 12h2M4.22 19.78l1.42-1.42M18.36 5.64l1.42-1.42"/>'
+        :'<path d="M21 12.79A9 9 0 1111.21 3 7 7 0 0021 12.79z"/>';
+    }
+    updateIcon();
+    if(btn)btn.addEventListener('click',function(){
+      const current=document.documentElement.getAttribute('data-theme');
+      const next=current==='light'?'dark':'light';
+      if(next==='dark'){document.documentElement.removeAttribute('data-theme');localStorage.removeItem('theme')}
+      else{document.documentElement.setAttribute('data-theme','light');localStorage.setItem('theme','light')}
+      updateIcon();
+    });
+  })();
   // Toast system
   window.toast=function(msg,type='success',ms=4000){const c=document.getElementById('toast-container'),t=document.createElement('div');t.className='toast toast-'+type;t.textContent=msg;c.appendChild(t);requestAnimationFrame(()=>t.classList.add('show'));setTimeout(()=>{t.classList.remove('show');setTimeout(()=>t.remove(),300)},ms)};
   // Auto-dismiss flash messages

diff --git a/static/approvals.js b/static/approvals.js
@@ -12,4 +12,56 @@ function updateBulkCount(){const n=cards().filter(c=>c.querySelector('.item-chec
 document.addEventListener('change',e=>{if(e.target.classList.contains('item-check')||e.target.id==='select-all')updateBulkCount()});
 // Suggest blacklist on reject
 document.addEventListener('click',async e=>{const btn=e.target.closest('[data-action="reject"]');if(!btn)return;const card=btn.closest('.approval-card');if(!card)return;setTimeout(()=>{const title=card.querySelector('h3')?.textContent||'';const words=title.toLowerCase().normalize('NFD').replace(/[\u0300-\u036f]/g,'').match(/[a-z0-9]+/g)||[];const stop=new Set(['de','do','da','dos','das','com','para','por','uma','um','hot','wheels','miniatura','carro','escala','mattel','edicao','premium']);const unique=[...new Set(words.filter(w=>w.length>3&&!stop.has(w)))].slice(0,5);if(unique.length>0&&confirm('Deseja bloquear algum termo deste produto?\\n\\nTermos: '+unique.join(', ')+'\\n\\nClique OK para escolher.')){const term=prompt('Qual termo bloquear?\\nSugestões: '+unique.join(', '));if(term&&term.trim()){fetch('/api/blacklist',{method:'POST',headers:{'Content-Type':'application/json'},body:JSON.stringify({kind:'term',value:term.trim(),label:'Sugerido ao rejeitar: '+title.slice(0,40)})}).then(r=>{if(r.ok&&window.toast)toast('Termo "'+term.trim()+'" adicionado à blacklist')})}}},300)});
+// Mobile swipe to approve/reject
+if('ontouchstart' in window)(function(){
+  const THRESHOLD=80;
+  document.querySelectorAll('.approval-card').forEach(card=>{
+    // Wrap content for sliding
+    const inner=document.createElement('div');
+    inner.className='swipe-inner';
+    while(card.firstChild)inner.appendChild(card.firstChild);
+    card.innerHTML='<div class="swipe-hint swipe-approve">Aprovar</div><div class="swipe-hint swipe-reject">Rejeitar</div>';
+    card.appendChild(inner);
+    card.classList.add('swipe-card');
+    inner.style.background='inherit';
+
+    let startX=0,currentX=0,dragging=false;
+    inner.addEventListener('touchstart',e=>{
+      startX=e.touches[0].clientX;currentX=0;dragging=true;
+      inner.style.transition='none';
+    },{passive:true});
+    inner.addEventListener('touchmove',e=>{
+      if(!dragging)return;
+      currentX=e.touches[0].clientX-startX;
+      // Dampen the movement
+      const dx=currentX*0.5;
+      inner.style.transform='translateX('+dx+'px)';
+      card.classList.toggle('swiping-right',dx>30);
+      card.classList.toggle('swiping-left',dx<-30);
+    },{passive:true});
+    inner.addEventListener('touchend',()=>{
+      dragging=false;
+      inner.style.transition='transform .2s';
+      const dx=currentX*0.5;
+      if(dx>THRESHOLD){
+        // Approve
+        inner.style.transform='translateX(100%)';
+        setTimeout(()=>{
+          const btn=card.querySelector('[data-action="approve"]');
+          if(btn)btn.click();
+        },200);
+      }else if(dx<-THRESHOLD){
+        // Reject
+        inner.style.transform='translateX(-100%)';
+        setTimeout(()=>{
+          const btn=card.querySelector('[data-action="reject"]');
+          if(btn)btn.click();
+        },200);
+      }else{
+        inner.style.transform='translateX(0)';
+        card.classList.remove('swiping-right','swiping-left');
+      }
+    });
+  });
+})();
 })();

diff --git a/templates/price_alerts.html b/templates/price_alerts.html
@@ -11,7 +11,15 @@
 <article class="panel alert-card {{ 'alert-triggered' if alert.triggered else '' }}">
 <div class="alert-top">{% if alert.image %}<img class="alert-img" src="{{ alert.image }}" alt="{{ alert.title }}" loading="lazy">{% endif %}<div class="alert-info"><div class="deal-badges"><span class="pill">{{ alert.store }}</span>{% if alert.triggered %}<span class="quality-badge quality-record">Atingiu o alvo!</span>{% else %}<span class="quality-badge quality-expensive">Aguardando</span>{% endif %}</div><h3>{{ alert.title }}</h3></div></div>
 <div class="alert-prices"><div><small>Preço marcado</small><strong>R$ {{ '%.2f'|format(alert.current_price) }}</strong></div><div><small>Alvo</small><strong class="alert-target-price">R$ {{ '%.2f'|format(alert.target_price) }}</strong></div></div>
-<div class="alert-footer"><span data-time="{{ alert.created_at }}">{{ alert.created_at[:16] }}</span>{% if alert.triggered_at %}<span data-time="{{ alert.triggered_at }}">{{ alert.triggered_at[:16] }}</span>{% endif %}<form method="post" action="{{ url_for('price_alert_delete', alert_id=alert.id) }}"><button class="button mini-btn mini-btn-danger" onclick="return confirm('Remover este alerta?')">Remover</button></form></div>
+<div class="alert-edit hidden" id="edit-{{ alert.id }}">
+<form method="post" action="{{ url_for('price_alert_edit', alert_id=alert.id) }}" style="display:flex;gap:8px;align-items:center;flex-wrap:wrap">
+<label style="font-size:12px;flex-shrink:0">Novo alvo:</label>
+<input type="number" name="target_price" step="0.01" min="0.01" value="{{ '%.2f'|format(alert.target_price) }}" style="width:110px;margin:0;padding:8px;font-size:14px">
+<button class="primary mini-btn" type="submit">Salvar</button>
+<button class="button mini-btn" type="button" onclick="this.closest('.alert-edit').classList.add('hidden')">Cancelar</button>
+</form>
+</div>
+<div class="alert-footer"><span data-time="{{ alert.created_at }}">{{ alert.created_at[:16] }}</span>{% if alert.triggered_at %}<span data-time="{{ alert.triggered_at }}">{{ alert.triggered_at[:16] }}</span>{% endif %}<div style="display:flex;gap:6px;margin-left:auto"><button class="button mini-btn" onclick="document.getElementById('edit-{{ alert.id }}').classList.toggle('hidden')">Editar</button><form method="post" action="{{ url_for('price_alert_delete', alert_id=alert.id) }}"><button class="button mini-btn mini-btn-danger" onclick="return confirm('Remover este alerta?')">Remover</button></form></div></div>
 </article>
 {% endfor %}
 </section>

diff --git a/dashboard.py b/dashboard.py
@@ -311,6 +311,21 @@ def price_alerts_page():
                            alerts=db.list_price_alerts(active_only=False))
 
 
+@app.post("/price-alerts/<int:alert_id>/edit")
+@login_required
+def price_alert_edit(alert_id):
+    try:
+        new_target = float(request.form.get("target_price", 0))
+        if new_target <= 0:
+            flash("Preço inválido", "error")
+        else:
+            db.update_price_alert_target(alert_id, new_target)
+            flash("Preço-alvo atualizado para R$ %.2f" % new_target, "success")
+    except (ValueError, TypeError):
+        flash("Preço inválido", "error")
+    return redirect(url_for("price_alerts_page"))
+
+
 @app.post("/price-alerts/<int:alert_id>/delete")
 @login_required
 def price_alert_delete(alert_id):

diff --git a/core/db.py b/core/db.py
@@ -648,6 +648,12 @@ def list_price_alerts(active_only=True):
             "SELECT * FROM price_alerts ORDER BY triggered, created_at DESC")]
 
 
+def update_price_alert_target(alert_id, new_target):
+    with _conn() as conn:
+        conn.execute("UPDATE price_alerts SET target_price=?, triggered=0, triggered_at=NULL WHERE id=?",
+                     (float(new_target), alert_id))
+
+
 def delete_price_alert(alert_id):
     with _conn() as conn:
         conn.execute("DELETE FROM price_alerts WHERE id=?", (alert_id,))
